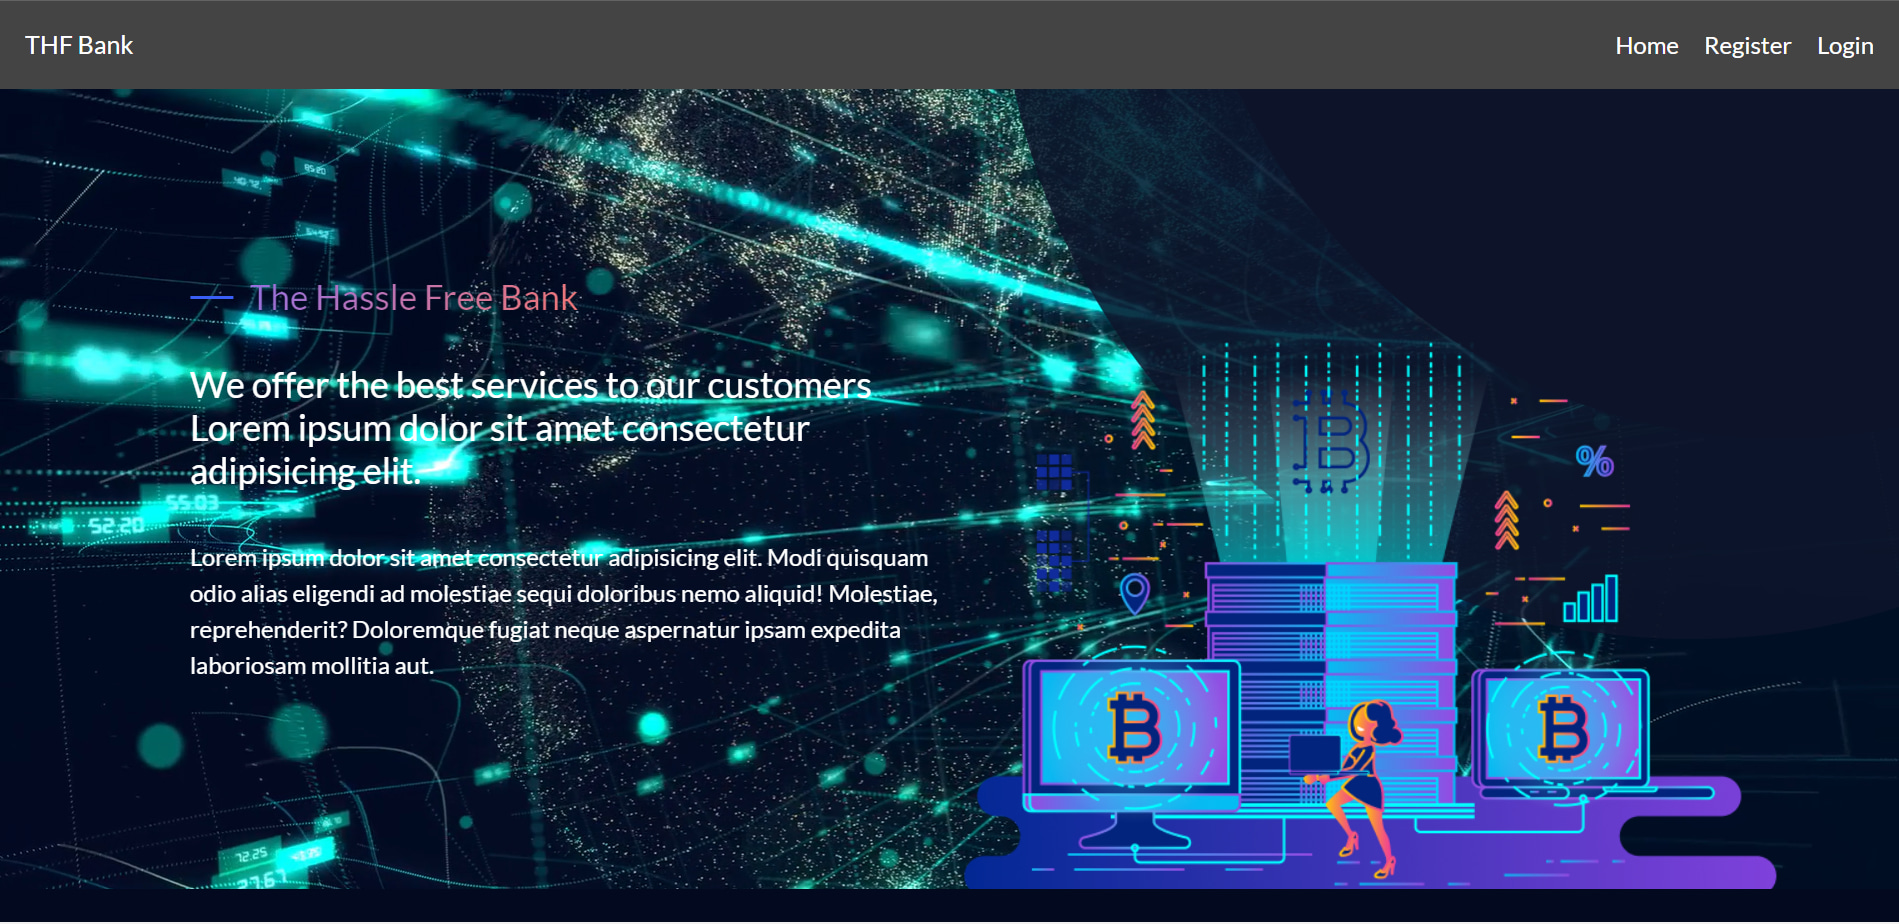
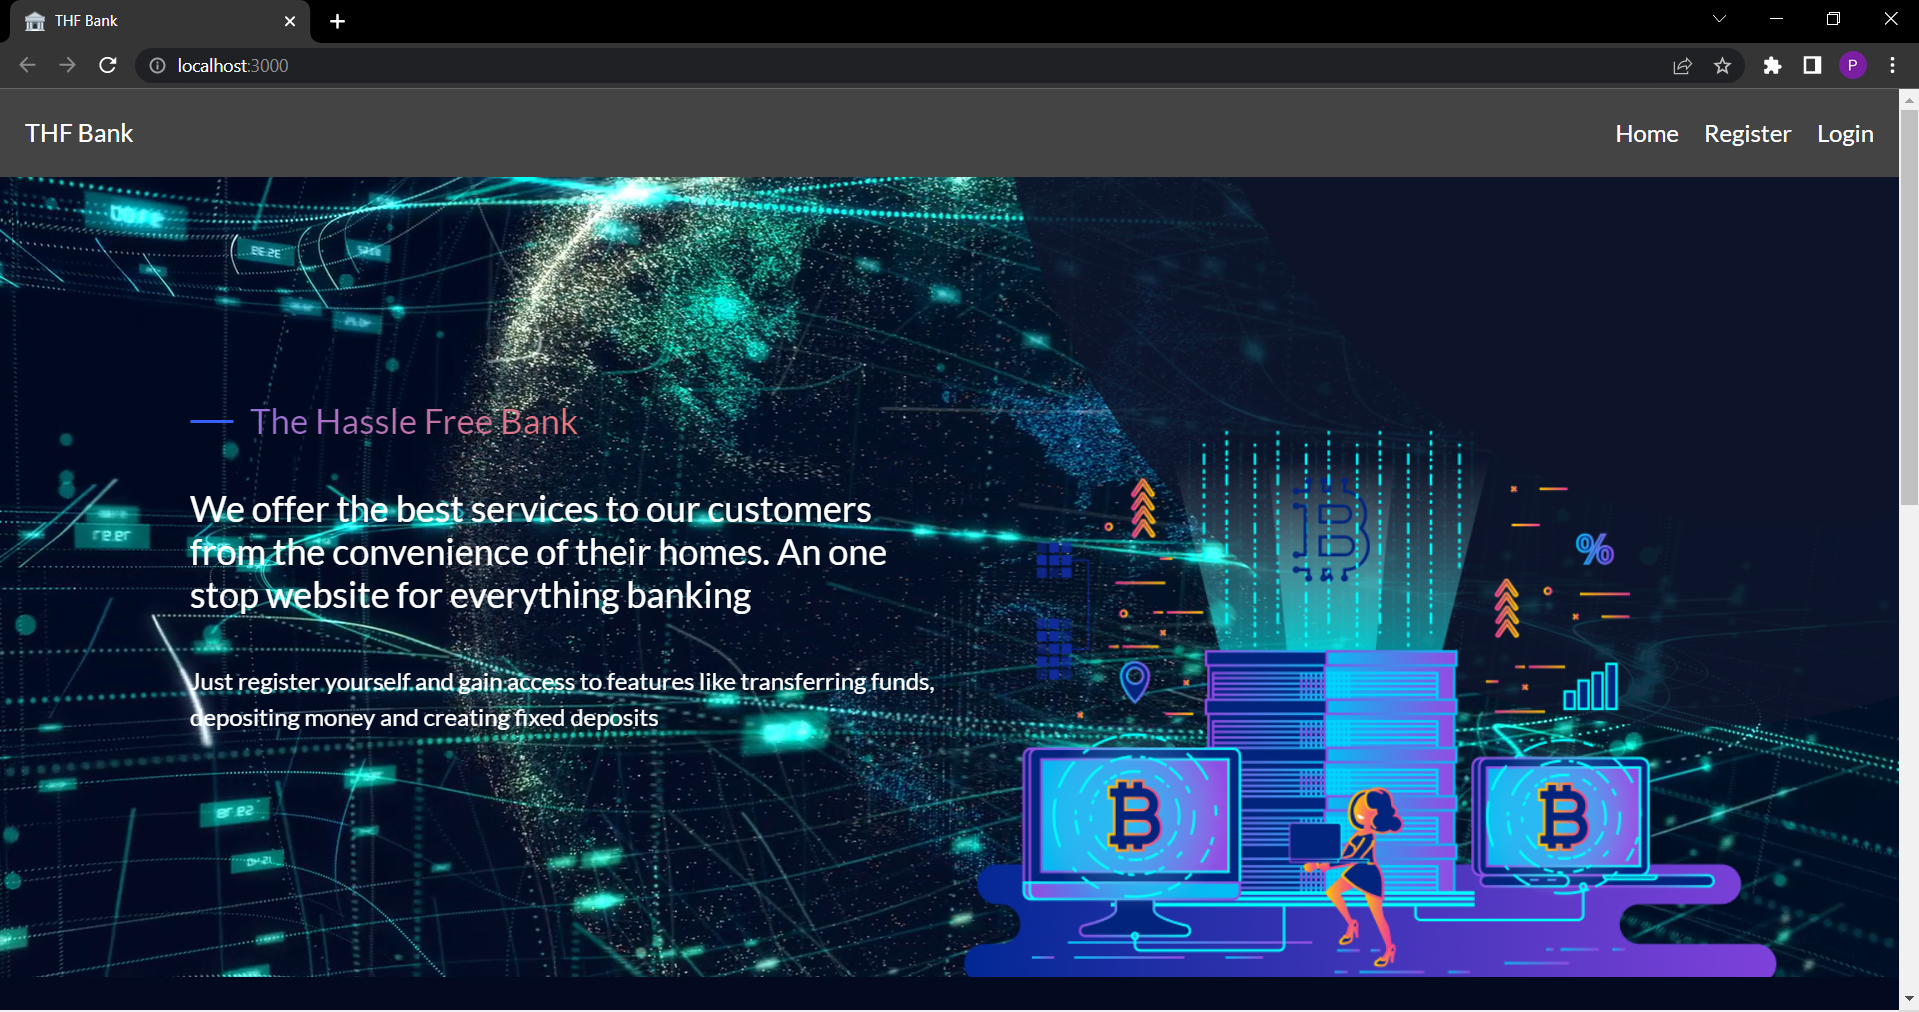
final changes

diff --git a/client/src/components/Content.js b/client/src/components/Content.js
@@ -10,11 +10,11 @@ const Content = () => {
                 <div className="left">
                     <SmallHead title={"The Hassle Free Bank"} identifier={'Before'}/>
                     <h1>
-                        We offer the best services to our customers
-                        Lorem ipsum dolor sit amet consectetur adipisicing elit.
+                        We offer the best services to our customers from the convenience of their homes.
+                        An one stop website for everything banking
                     </h1>
                     <p>
-                        Lorem ipsum dolor sit amet consectetur adipisicing elit. Modi quisquam odio alias eligendi ad molestiae sequi doloribus nemo aliquid! Molestiae, reprehenderit? Doloremque fugiat neque aspernatur ipsam expedita laboriosam mollitia aut.
+                        Just register yourself and gain access to features like transferring funds, depositing money and creating fixed deposits 
                     </p>
                 </div>
                 <div className="right">

diff --git a/client/public/index.html b/client/public/index.html
@@ -3,7 +3,7 @@
 
 <head>
   <meta charset="utf-8" />
-  <link rel="icon" href="%PUBLIC_URL%/favicon.ico" />
+  <link rel="icon" href="./favicon-32x32.png" />
   <meta name="viewport" content="width=device-width, initial-scale=1" />
   <meta name="theme-color" content="#000000" />
   <meta name="description" content="Web site created using create-react-app" />
